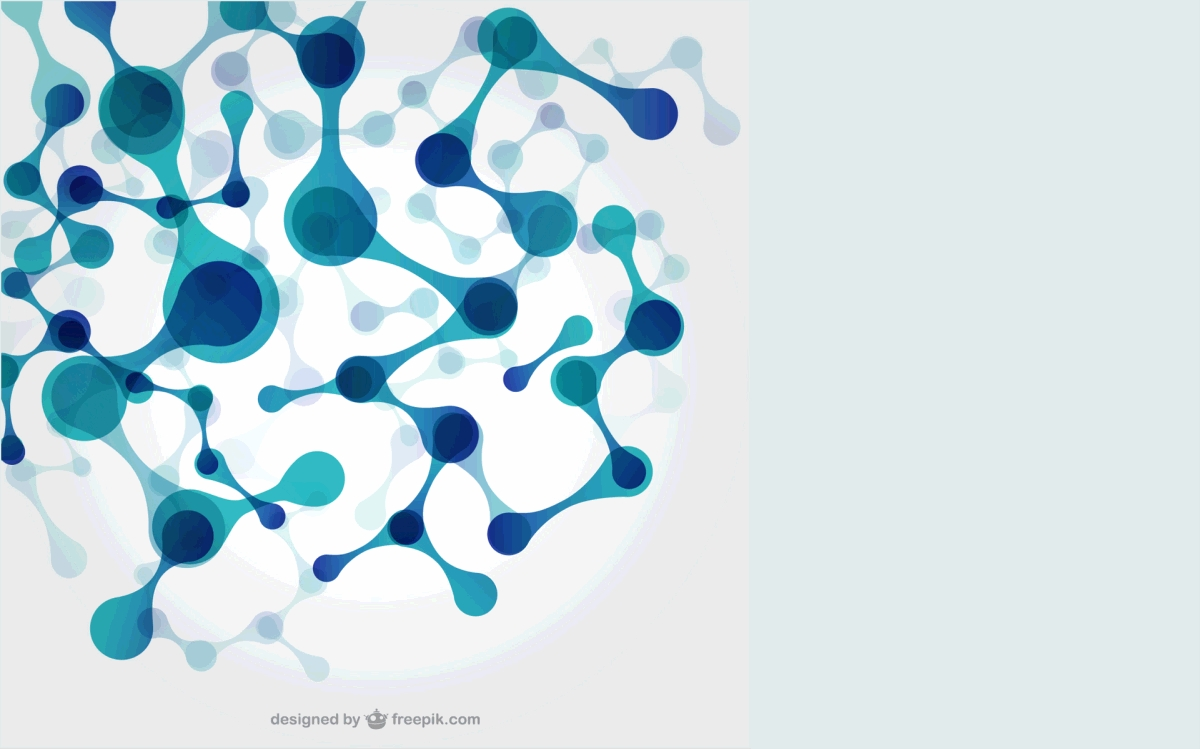
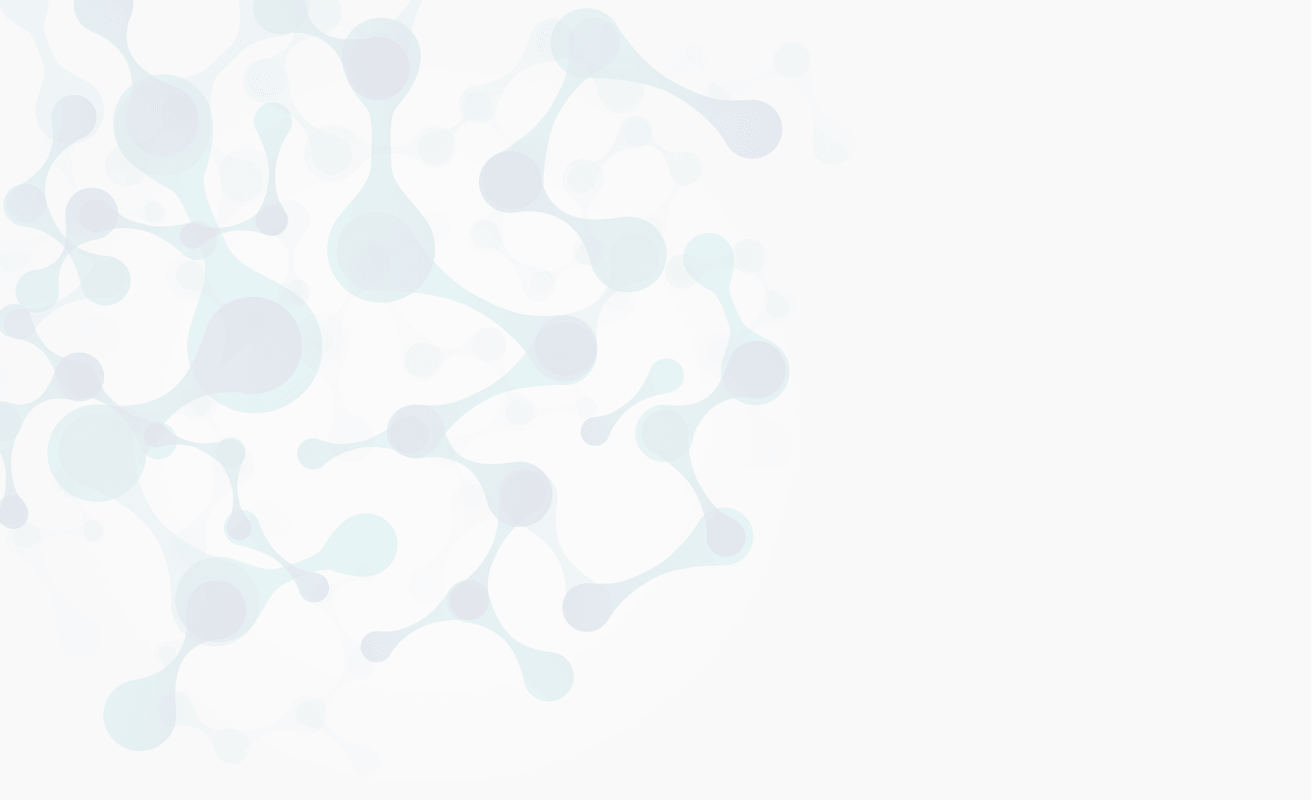
Style Changes

diff --git a/style/style.scss b/style/style.scss
@@ -86,7 +86,7 @@ $notice_content_color: #fff;
 	background-color: $background_color_dark;
 	background-repeat: no-repeat;
 	background-image:
-	url('images/template/background.png'),
+	url('images/template/background-min.png'),
 	linear-gradient(
 		to bottom right,
 		$linear_gradient_color_1,

diff --git a/src/utils/data.js b/src/utils/data.js
@@ -1,5 +1,5 @@
 export const headerData = {
-  logoImage: 'custom/header/logo_white.png',
+  logoImage: 'custom/header/logo_white-min.png',
   title: 'BrainFunc',
   subTitle: `Learn about the Brain. Fight epic Battles. Build the ultimate Brain on the Blockchain!`
 }
